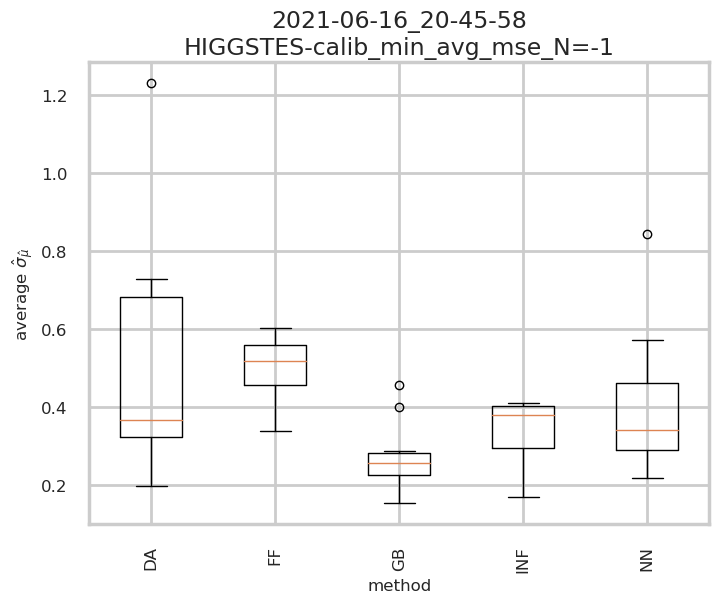
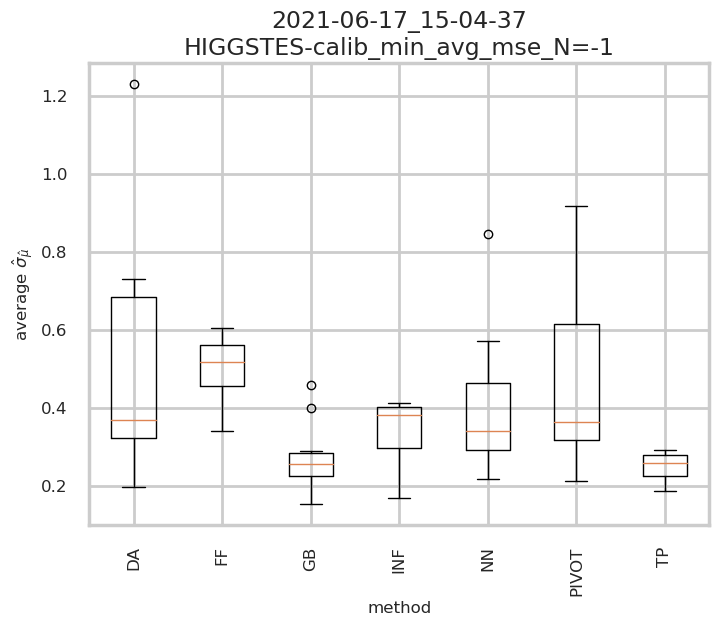
Improved

diff --git a/modules.md.html b/modules.md.html
@@ -534,6 +534,15 @@ Ceci pourrait indiquer que nos toys sont mals choisis ?
 Ceci pourrait indiquer que le pouvoir séparateur (S vs B) de la réduction de dimension n'est pas nécessaire ?
 
 
+Claim 4 : Direct regression est possible
+-------------------------------------------------------------------------------
+
+Preuve de concepte sur les toys.
+Mais ça ne marche pas si l'effet du paramètre d'intérêt sur les distributions est trop faible.
+
+
+
+
 
 MSE plots
 -------------------------------------------------------------------------------
@@ -544,6 +553,10 @@ Je met les MSE plots ici pour éviter de surcharger les sections précédentes.
 ![Figure [fig:S3D2-Prior]:
   Confidence interval length using **classic** and ideal (label *likelihood*) pipeline on the 3D toy
 ](./modules/S3D2-prior_min_avg_mse_N=30000-boxplot_mse.png)
+
+!!! WARNING
+    La MSE de TP est très proche de zéro. C'est surprenant !
+    J'ai vérifié et c'est pas un bug. J'ignore pourquoi mais même Minos fonctionne pour ce cas.
 
 ![Figure [fig:S3D2-Calib]:
   Confidence interval length using **hybrid** and ideal (label *likelihood*) pipeline on the 3D toy
